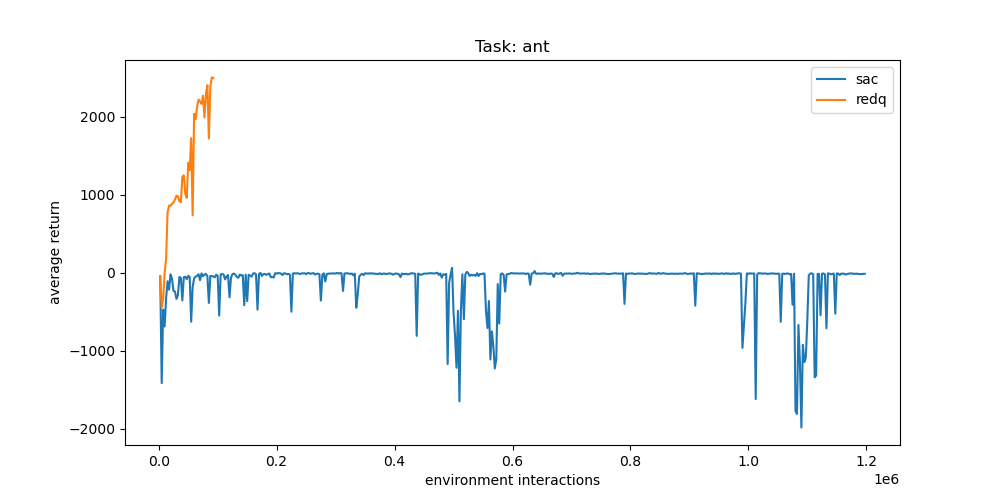
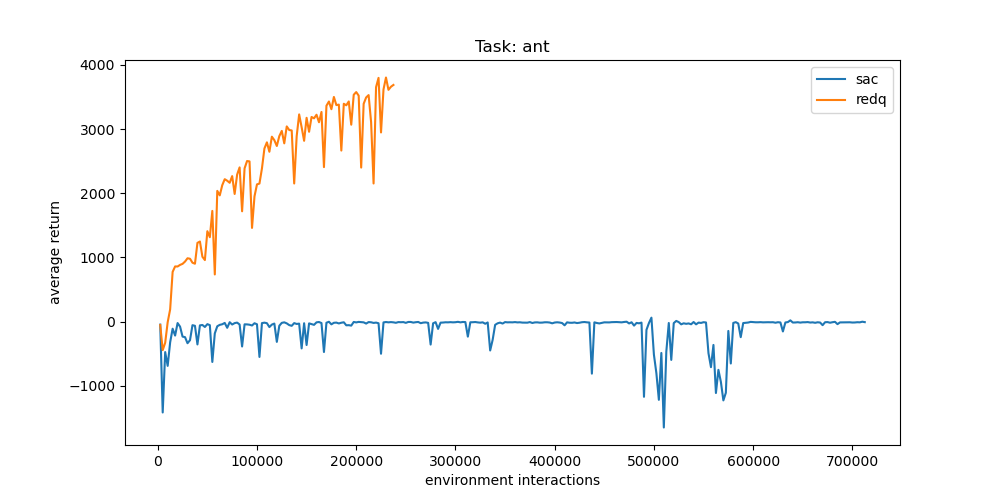
update

diff --git a/src/utils.py b/src/utils.py
@@ -343,10 +343,10 @@ def plot_train_curve_cmp(path_sac, path_redq, task_name):
 	len_sac = len(steps_sac)
 	len_redq = len(steps_redq)
 
-	plot_step_end = min(len_sac, len_redq * 5)
+	plot_step_end = min(len_sac, len_redq * 3)
 	# plot the data
 	plt.figure(figsize=(10, 5))
-	plt.plot(steps_sac[:plot_step_end * 5], values_sac[:plot_step_end * 5], label="sac")
+	plt.plot(steps_sac[:plot_step_end], values_sac[:plot_step_end], label="sac")
 	plt.plot(steps_redq, values_redq, label="redq")
 	plt.legend()
 	plt.xlabel('environment interactions')
